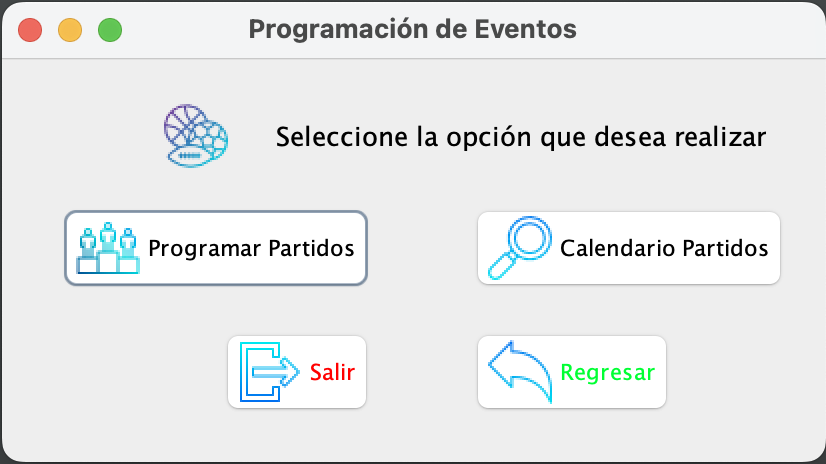
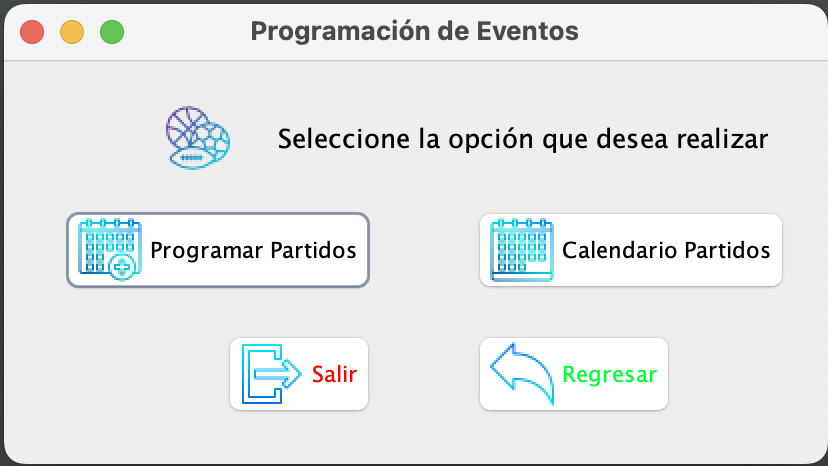
UpdateMenus

diff --git a/ProyectoFinal/src/proyectofinal/Menus/ProgramacionEventos.java b/ProyectoFinal/src/proyectofinal/Menus/ProgramacionEventos.java
@@ -53,7 +53,7 @@ public class ProgramacionEventos extends javax.swing.JFrame {
             }
         });
 
-        btnProgramarPartidos.setIcon(new javax.swing.ImageIcon(getClass().getResource("/img/png/003-lider.png"))); // NOI18N
+        btnProgramarPartidos.setIcon(new javax.swing.ImageIcon(getClass().getResource("/img/png/009-calendario-1.png"))); // NOI18N
         btnProgramarPartidos.setText("Programar Partidos");
         btnProgramarPartidos.addActionListener(new java.awt.event.ActionListener() {
             public void actionPerformed(java.awt.event.ActionEvent evt) {
@@ -61,7 +61,7 @@ public class ProgramacionEventos extends javax.swing.JFrame {
             }
         });
 
-        btnCalendarioPartidos.setIcon(new javax.swing.ImageIcon(getClass().getResource("/img/png/lupa.png"))); // NOI18N
+        btnCalendarioPartidos.setIcon(new javax.swing.ImageIcon(getClass().getResource("/img/png/008-calendario-2.png"))); // NOI18N
         btnCalendarioPartidos.setText("Calendario Partidos");
         btnCalendarioPartidos.addActionListener(new java.awt.event.ActionListener() {
             public void actionPerformed(java.awt.event.ActionEvent evt) {
